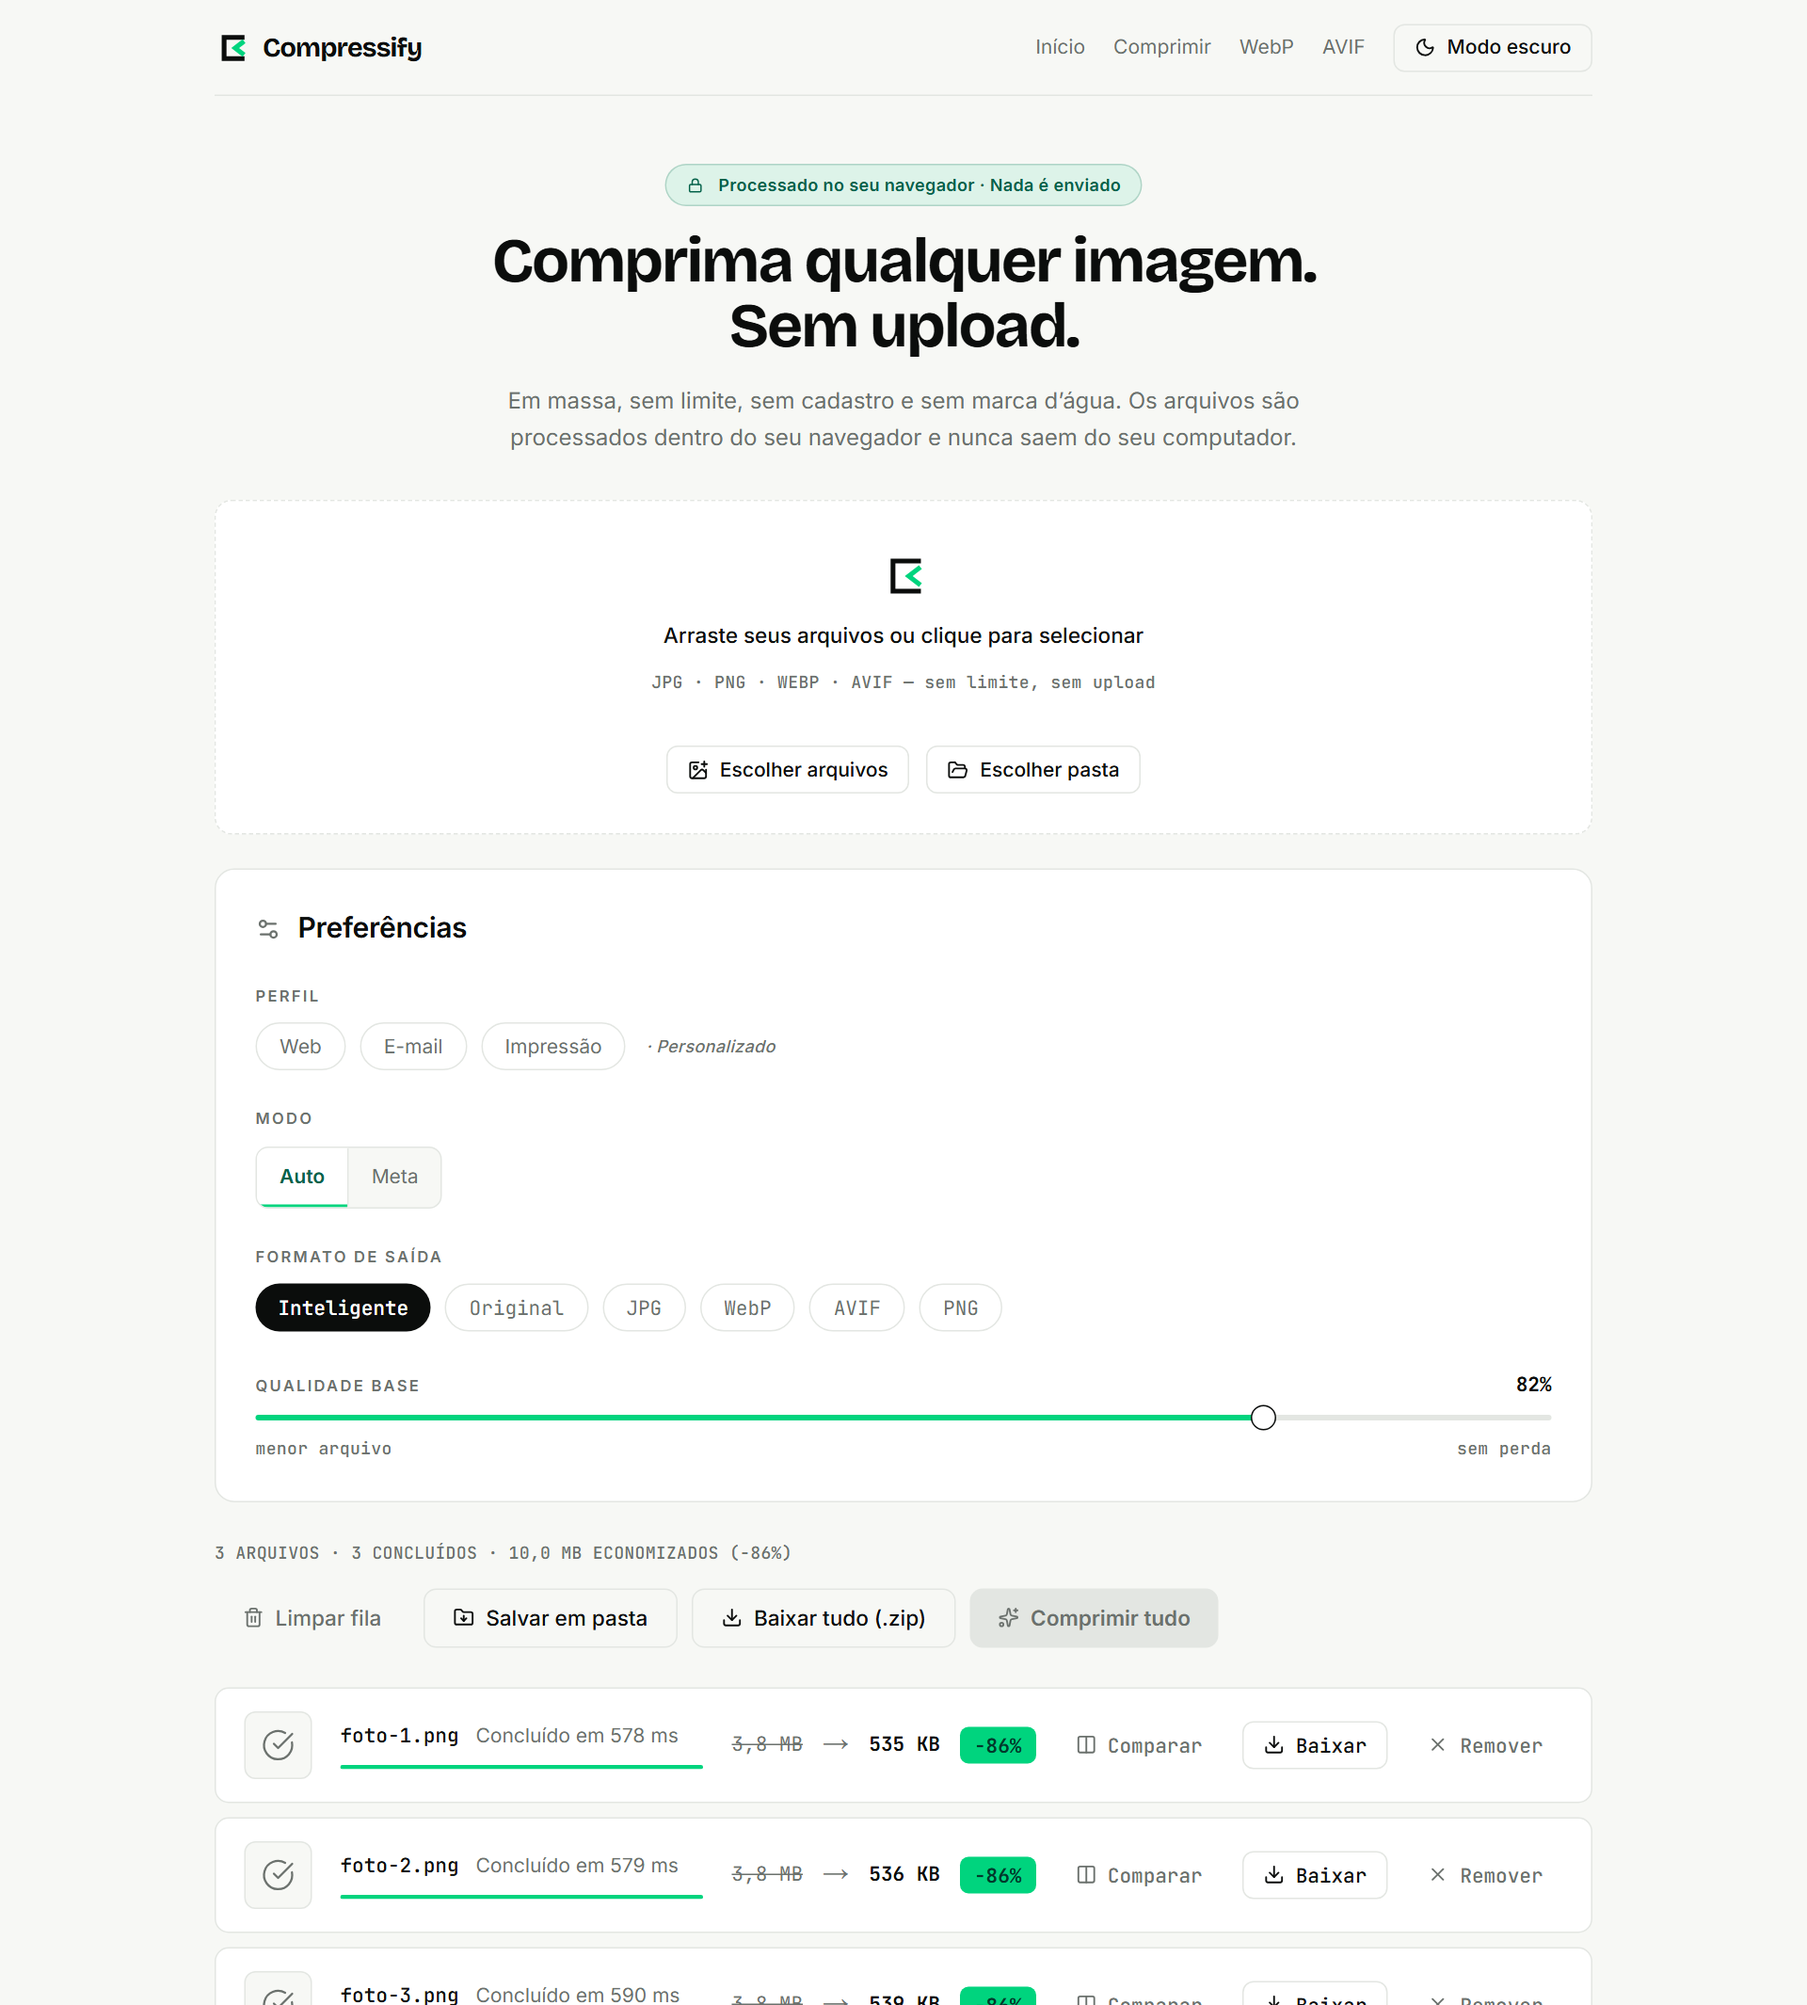
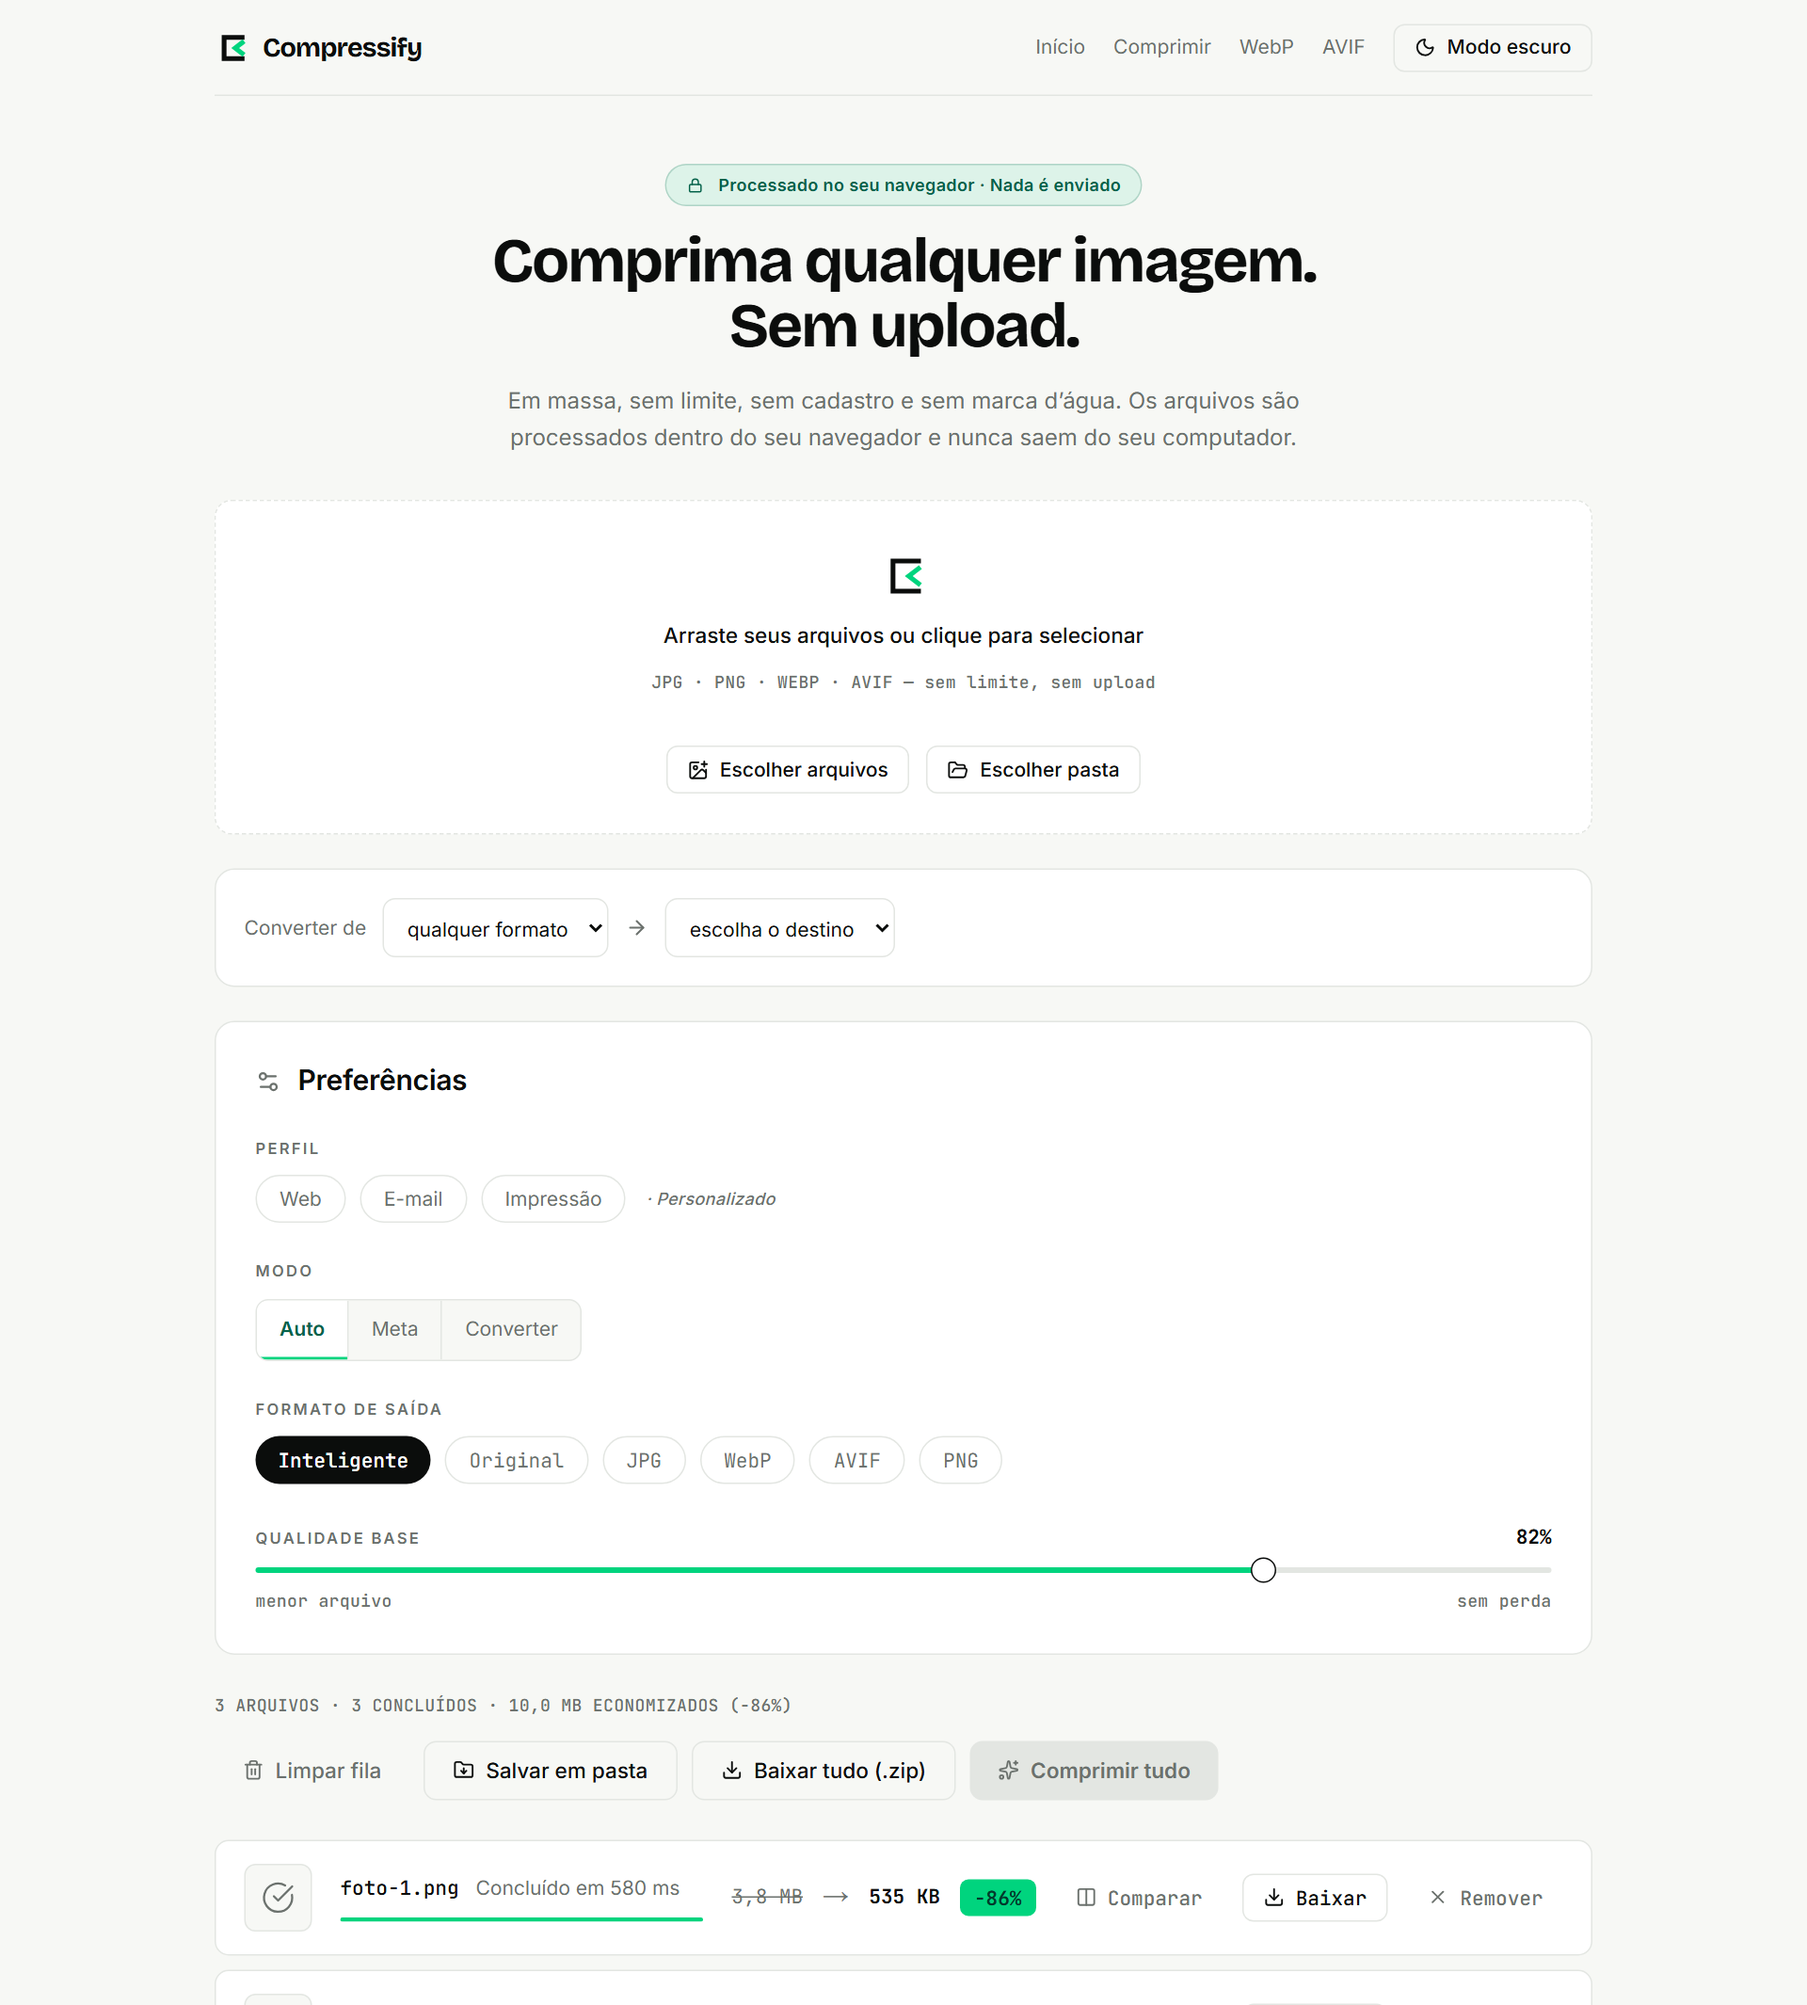
fix(ui): o dropzone volta a ser a primeira coisa da ferramenta
A captura do README é gerada por script justamente para envelhecer junto
com a interface, e ao regenerá-la ficou visível o que o código não mostrava:
com o seletor de par no topo, a primeira coisa dentro da ferramenta virava
uma pergunta — "para qual formato?" — em vez da ação que o h1 anuncia,
"arraste seus arquivos". Numa página cujo título é "Comprima qualquer
imagem", isso é prioridade trocada.

O seletor desceu para logo abaixo do dropzone. Nas landings de conversão
nada se perde: o par já está dito no h1 e na faixa de destaque, e o seletor
continua chegando preenchido.

As duas capturas do README foram regeneradas.

diff --git a/src/components/queue/QueueWorkspace.tsx b/src/components/queue/QueueWorkspace.tsx
@@ -62,9 +62,17 @@ export function QueueWorkspace({ conversion }: QueueWorkspaceProps = {}) {
 
   return (
     <div className="flex flex-col gap-6">
-      <ConversionBar />
+      {/*
+        O dropzone vem primeiro, e o seletor de par logo depois — não antes.
+        A captura do README mostrou por quê: com o seletor no topo, a primeira
+        coisa dentro da ferramenta virava uma pergunta ("para qual formato?")
+        em vez da ação que a página anuncia no `h1` ("arraste seus arquivos").
+        Nas landings de conversão o par já está dito no título e na faixa de
+        destaque, então nada se perde estando aqui.
+      */}
       <Dropzone onFiles={addFiles} />
       <RejectedNotice />
+      <ConversionBar />
       <OptionsPanel />
       <ActionBar />
       <QueueList />
